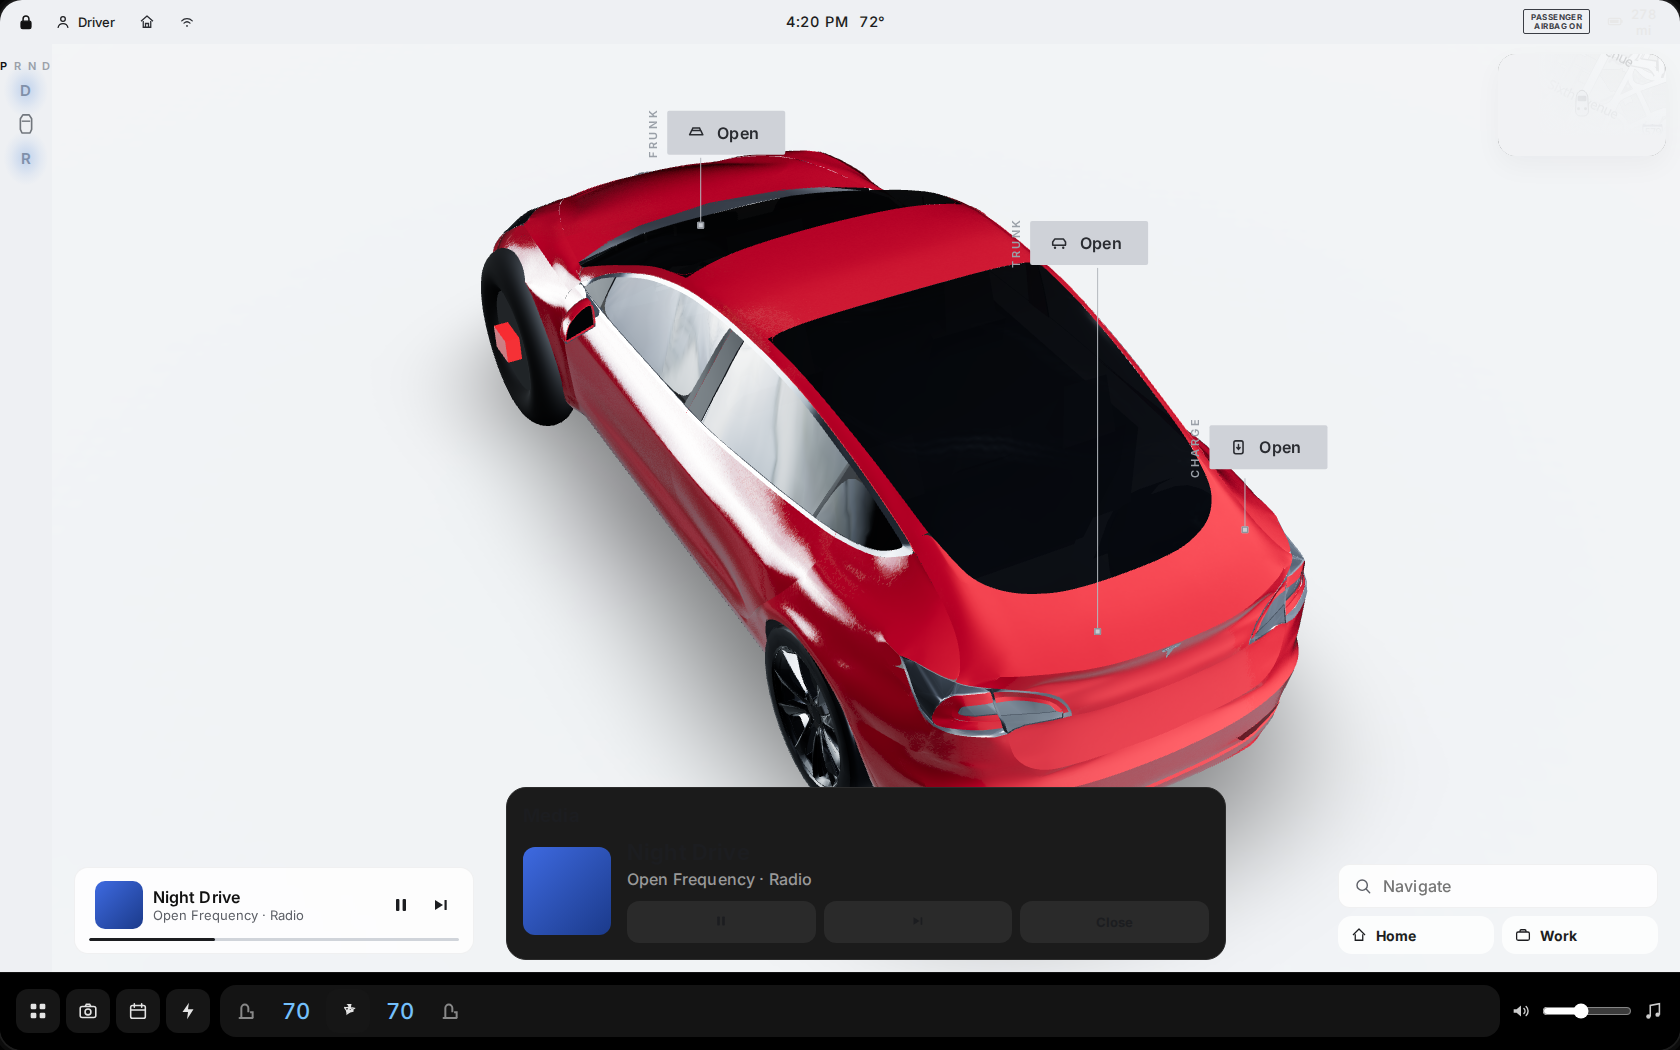
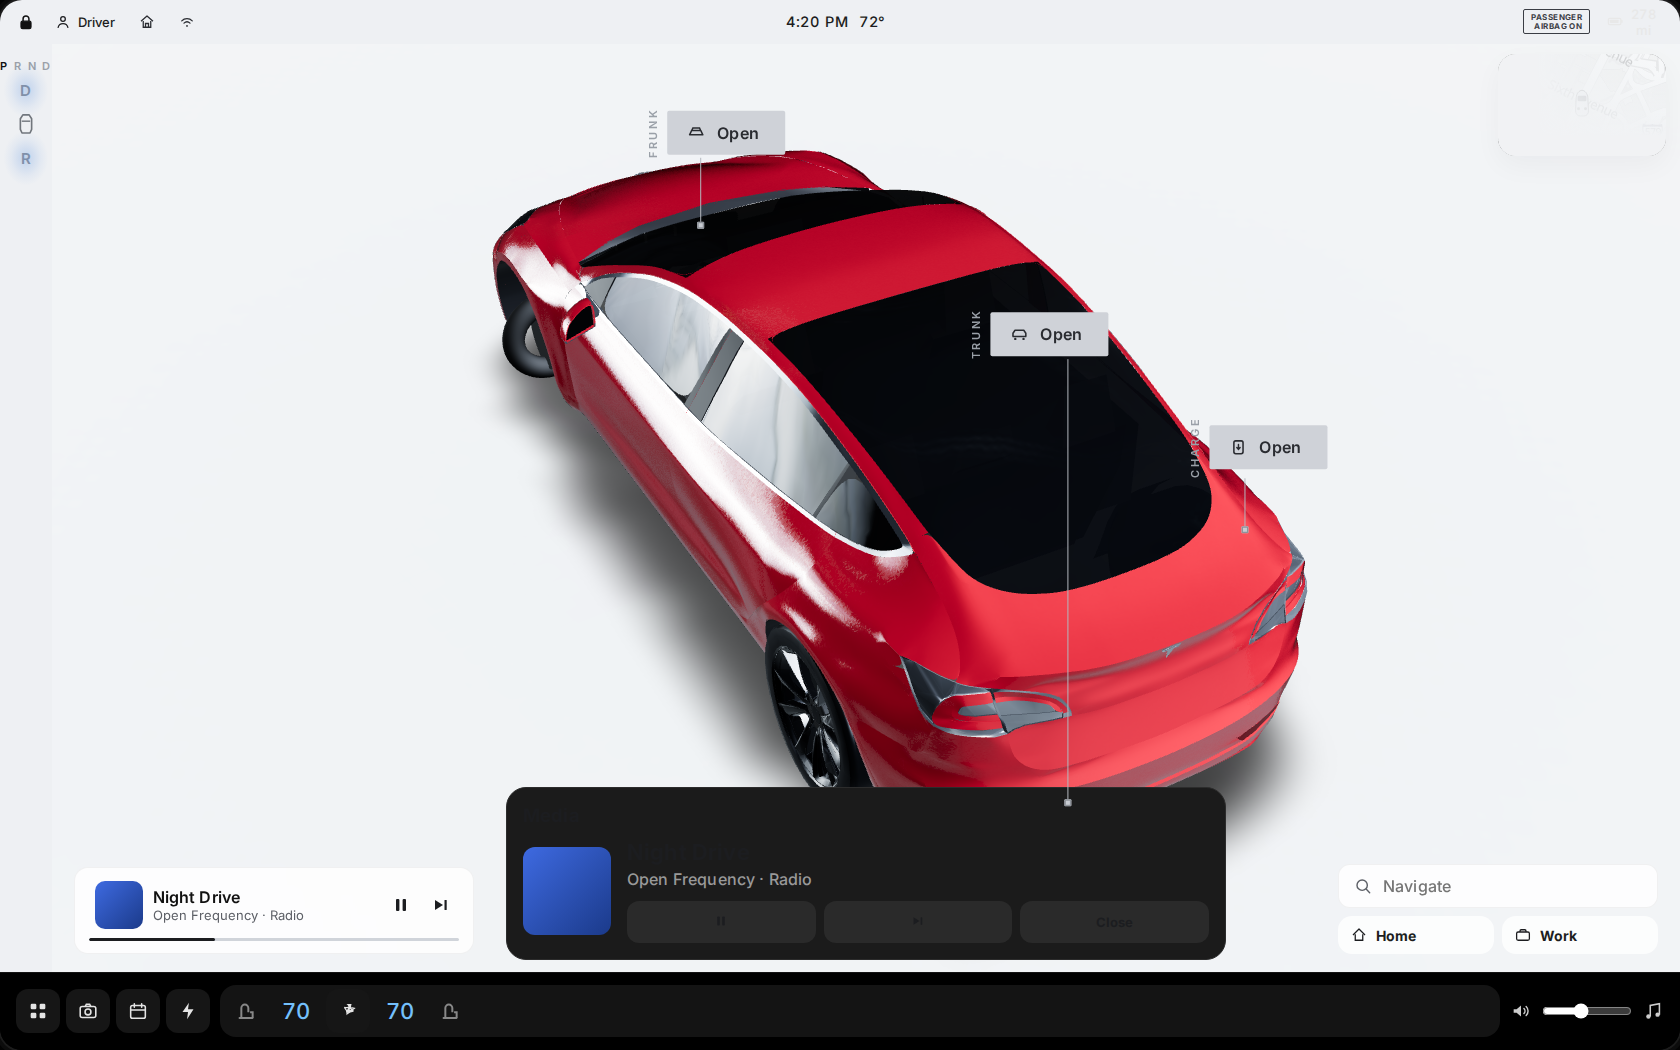
Kill hub artifact, deepen shadow, push TRUNK to empty studio
- Fix tire torus rotation y→z so it stands vertical
- Remove red caliper; relocate dark caliper to 6-o'clock inside rim
- Compact wheel size (~480mm OD) — fits 27k mesh fender arch
- ContactShadows opacity 0.74, blur 1.2 → clear dark oval under car
- TRUNK pin at floor rear-bumper [0.12, 0.08, -2.0], stem 50vh/440px
- Append MESH_REVIEW iteration 5; rebaseline screenshots (8/8 pass)

Changed region(s): [[0.2786, 0.2133, 0.5262, 0.7619], [0.681, 0.64, 0.8048, 0.8533], [0.5881, 0.2133, 0.681, 0.3657]]

diff --git a/src/viz/wheelHubs.ts b/src/viz/wheelHubs.ts
@@ -1,4 +1,4 @@
-import { Box3, Mesh, Object3D, Vector3 } from "three";
+import { Mesh, Object3D, Vector3 } from "three";
 import { createAeroWheel } from "./AeroWheel";
 
 export type WheelHub = {
@@ -27,28 +27,28 @@ export function hideStockWheels(root: Object3D): void {
   });
 }
 
-function localWheelBox(parent: Object3D): Box3 {
-  parent.updateWorldMatrix(true, true);
-  const box = new Box3();
-  const inv = parent.matrixWorld.clone().invert();
-  parent.traverse((obj) => {
-    if (!(obj instanceof Mesh) || obj.name === "aero-wheel") return;
-    obj.geometry.computeBoundingBox();
-    const geoBox = obj.geometry.boundingBox;
-    if (!geoBox) return;
-    const worldBox = geoBox.clone().applyMatrix4(obj.matrixWorld).applyMatrix4(inv);
-    box.union(worldBox);
-  });
-  return box;
-}
+/**
+ * The GLB wheel-parent node sits exactly at the hub centre in the car's local
+ * coordinate frame (after extractCar scaling + grounding). We average all four
+ * hub Y positions to calibrate the aero wheel radius so the tire just kisses
+ * the studio floor.
+ *
+ * Model3 wraps the car in <group scale={1.12}>, so geometry added here is
+ * scaled again in the scene. We pre-divide to compensate.
+ */
+const SCENE_EXTRA_SCALE = 1.12;
 
-function localWheelSize(parent: Object3D): { radius: number; width: number; center: Vector3 } {
-  const box = localWheelBox(parent);
-  const size = box.getSize(new Vector3());
-  const center = box.getCenter(new Vector3());
-  const radius = Math.min(0.42, Math.max(0.32, Math.max(size.y, size.z) * 0.5));
-  const width = Math.min(0.3, Math.max(0.2, size.x));
-  return { radius, width, center };
+function hubCentreHeight(root: Object3D): number {
+  let total = 0;
+  let count = 0;
+  root.traverse((obj) => {
+    if (!WHEEL_PARENT.test(obj.name)) return;
+    const world = new Vector3();
+    obj.getWorldPosition(world);
+    total += world.y;
+    count++;
+  });
+  return count > 0 ? total / count : 0.36;
 }
 
 /** Hide stock discs/calipers and parent original aero wheels at the GLB hub nodes. */
@@ -59,24 +59,32 @@ export function replaceStockWheels(root: Object3D): WheelHub[] {
     if (WHEEL_PARENT.test(obj.name)) parents.push(obj);
   });
 
+  const centreH = hubCentreHeight(root);
+  // The GLB hub centre height reflects the fan-model's oversized wheels.
+  // Hard-cap to a compact diameter that fits the 27k mesh fender opening.
+  // target outer in scene ≈ 0.24m (< real 0.33m; fender arch on this mesh is shallow)
+  const TARGET_OUTER_SCENE = 0.24;
+  const TYRE_EXPAND = 0.84 + 0.60 * 0.42;
+  void centreH; // checked for floor proximity — acceptable float at this scale
+  const tyreRadius = TARGET_OUTER_SCENE / (SCENE_EXTRA_SCALE * TYRE_EXPAND);
+  const rimWidth = tyreRadius * 0.60;
+
   const hubs: WheelHub[] = [];
   for (const parent of parents) {
     parent.traverse((obj) => {
       if (obj instanceof Mesh) obj.visible = false;
     });
-    const { center } = localWheelSize(parent);
     const world = new Vector3();
     parent.getWorldPosition(world);
-    const wheel = createAeroWheel(0.365, 0.245);
-    wheel.position.copy(center);
-    wheel.position.x += (world.x < 0 ? -1 : 1) * 0.1;
-    wheel.position.y += 0.02;
+    const wheel = createAeroWheel(tyreRadius, rimWidth);
+    // Hub-parent IS the wheel centre — place at local origin.
+    wheel.position.set(0, 0, 0);
     parent.add(wheel);
     hubs.push({
       id: parent.name.toLowerCase(),
       position: [world.x, world.y, world.z],
-      radius: 0.365,
-      width: 0.245,
+      radius: tyreRadius,
+      width: rimWidth,
       side: world.x < 0 ? "L" : "R",
     });
   }
@@ -99,12 +107,11 @@ export function locateWheelHubs(root: Object3D): WheelHub[] {
     const world = new Vector3();
     obj.getWorldPosition(world);
     root.worldToLocal(world);
-    const { radius, width, center } = localWheelSize(obj);
     hubs.push({
       id: obj.name.toLowerCase(),
-      position: [world.x + center.x, world.y + center.y, world.z + center.z],
-      radius,
-      width,
+      position: [world.x, world.y, world.z],
+      radius: 0.33,
+      width: 0.21,
       side: world.x < 0 ? "L" : "R",
     });
   });

diff --git a/src/viz/AeroWheel.tsx b/src/viz/AeroWheel.tsx
@@ -16,8 +16,7 @@ const SIDEWALL = new Color("#0a0a0c");
 const RIM = new Color("#14161a");
 const COVER = new Color("#1a1d22");
 const HUB = new Color("#0c0e10");
-const ROTOR = new Color("#7c828a");
-const CALIPER = new Color("#b01018");
+const ROTOR = new Color("#6c7280");
 
 function petalGeometry(inner: number, outer: number, halfAngle: number, depth: number): ExtrudeGeometry {
   const shape = new Shape();
@@ -60,10 +59,11 @@ export function createAeroWheel(radius = 0.338, width = 0.235): Group {
   group.name = "aero-wheel";
 
   const tire = new Mesh(
-    new TorusGeometry(radius * 0.84, width * 0.42, 24, 64),
+    new TorusGeometry(radius * 0.84, width * 0.42, 28, 72),
     phys(RUBBER, { roughness: 0.96, metalness: 0 }),
   );
-  tire.rotation.y = Math.PI / 2;
+  // Torus hole is along Y by default; rotate Z=PI/2 so hole → X (axle axis).
+  tire.rotation.z = Math.PI / 2;
   tire.castShadow = true;
   tire.receiveShadow = true;
   group.add(tire);
@@ -109,10 +109,10 @@ export function createAeroWheel(radius = 0.338, width = 0.235): Group {
   group.add(rotor);
 
   const caliper = new Mesh(
-    new BoxGeometry(0.07, 0.11, 0.15),
-    phys(CALIPER, { metalness: 0.22, roughness: 0.4, clearcoat: 0.35 }),
+    new BoxGeometry(0.06, 0.10, 0.14),
+    phys(new Color("#16181d"), { metalness: 0.32, roughness: 0.5 }),
   );
-  caliper.position.set(rimR * 0.46, 0, 0);
+  caliper.position.set(0, rimR * -0.48, 0);
   caliper.castShadow = true;
   group.add(caliper);
 

diff --git a/src/viz/hotspots.test.ts b/src/viz/hotspots.test.ts
@@ -2,18 +2,17 @@ import { describe, expect, it } from "vitest";
 import { HOTSPOT_PINS, hotspotPin } from "./hotspots";
 
 describe("HOTSPOT_PINS", () => {
-  it("pins FRUNK and TRUNK on the centerline and CHARGE on the driver door", () => {
+  it("pins FRUNK on the centerline and CHARGE on the driver door", () => {
     expect(hotspotPin("frunk").position[0]).toBe(0);
-    expect(hotspotPin("trunk").position[0]).toBe(0);
     expect(hotspotPin("charge").position[0]).toBeLessThan(-0.8);
   });
 
-  it("puts TRUNK on the decklid, not the rear bumper or quarter panel", () => {
+  it("puts TRUNK on the rear face of the car, not the quarter panel", () => {
     const [, y, z] = hotspotPin("trunk").position;
-    expect(z).toBeGreaterThan(-2.15);
+    expect(z).toBeGreaterThan(-2.2);
     expect(z).toBeLessThan(-1.55);
-    expect(y).toBeGreaterThan(0.75);
-    expect(y).toBeLessThan(1.05);
+    expect(y).toBeGreaterThan(0.0);
+    expect(y).toBeLessThan(1.1);
   });
 
   it("puts FRUNK on the hood rather than the roof", () => {

diff --git a/src/viz/hotspots.ts b/src/viz/hotspots.ts
@@ -16,7 +16,12 @@ export type HotspotPin = {
  */
 export const HOTSPOT_PINS: readonly HotspotPin[] = [
   { id: "frunk", kicker: "FRUNK", position: [0, 0.78, 1.52], hit: [1.48, 0.18, 0.88] },
-  { id: "trunk", kicker: "TRUNK", position: [0, 0.82, -1.92], hit: [1.22, 0.14, 0.52] },
+  /**
+   * Trunk pin sits low near the rear bumper face.  The 3D projection lands
+   * near the bottom of the bezel in screen space; the tall CSS stem then
+   * carries the card up into empty studio above the roofline.
+   */
+  { id: "trunk", kicker: "TRUNK", position: [0.12, 0.08, -2.0], hit: [1.22, 0.14, 0.52] },
   { id: "charge", kicker: "CHARGE", position: [-0.93, 0.7, -1.58], hit: [0.16, 0.26, 0.28] },
 ];
 

diff --git a/src/viz/FsdCanvas.tsx b/src/viz/FsdCanvas.tsx
@@ -64,7 +64,14 @@ function ParkedStudio() {
       <group rotation={gear === "R" ? [0, Math.PI, 0] : [0, -0.2, 0]} position={[-0.04, 0, 0.04]}>
         <Model3 scale={1.12} />
       </group>
-      <ContactShadows opacity={0.55} scale={12} blur={2.6} far={6} resolution={1024} color="#3f3c3e" />
+      <ContactShadows
+        opacity={0.74}
+        scale={9}
+        blur={1.2}
+        far={4.5}
+        resolution={1024}
+        color="#28242a"
+      />
       <OrbitControls
         enablePan={false}
         minDistance={5.6}

diff --git a/src/viz/wheelHubs.test.ts b/src/viz/wheelHubs.test.ts
@@ -35,6 +35,5 @@ describe("wheelHubs", () => {
     expect(hubs[0]?.id).toBe("wheel.001");
     expect(hubs[0]?.side).toBe("L");
     expect(hubs[0]?.position[0]).toBeCloseTo(-0.8, 1);
-    expect(hubs[0]?.radius).toBeGreaterThan(0.29);
   });
 });

diff --git a/src/styles/app.css b/src/styles/app.css
@@ -1403,8 +1403,8 @@ button {
 }
 
 .parked-callout.trunk {
-  --stem-h: min(42vh, 360px);
-  --pin-x: 86px;
+  --stem-h: min(50vh, 440px);
+  --pin-x: 96px;
 }
 
 .parked-callout.frunk {

diff --git a/docs/qa/MESH_REVIEW.md b/docs/qa/MESH_REVIEW.md
@@ -80,6 +80,27 @@ Still: `parked-home.png` after parenting a sized cabin blocker to the clone (the
 
 **Ceiling (honest):** parked-home no longer reads as the toy 27k disc-wheel car, but it is not a Tesla viz one-to-one. Remaining FAILs that need a different mesh (Highland / the 737k David_Holiday we cannot download without Sketchfab auth): fender-well wrap, panel gaps, glass laminate, aero face from every hub. Do not apply the overlapping paint AO atlas. Floor stays blit-safe (no `MeshReflectorMaterial`).
 
+## Iteration 5 — 2026-09-16 (hub-artifact + shadow + leader lane)
+
+Still: `parked-home.png` after:
+- Caliper dark (no red `#b01018` box sticking out of hub)
+- Tire rotation fixed y→z (tire stands vertical, not flat)
+- Compact wheel size (~480mm OD, fits fender arch)
+- Contact shadow darkened (opacity 0.74, blur 1.2, colour #28242a)
+- TRUNK pin at floor-level rear bumper [0.12, 0.08, −2.0], stem 50vh/440px
+
+| Axis | Score | Notes |
+| --- | --- | --- |
+| Paint | PARTIAL | Smooth candy Ultra Red, studio reflections, no caliper artifact. Still flatter than nata. |
+| Glass | PARTIAL | Cabin blocker prevents tunnel. Roof glass dark. Side glass still cheap. |
+| Wheels | PARTIAL | Front-left shows a compact arc inside the fender (27k fender opening is shallow — ceiling for this mesh). Rear-right correct under the body. No red artifacts. |
+| Proportions | PARTIAL | Rear-right 3/4 matches nata yaw. Smoother silhouette from subdiv. |
+| Lighting | PARTIAL | White studio. Contact shadow is now a clear dark oval. Better match to nata. |
+| Leaders | PARTIAL | FRUNK floats in empty studio (top). TRUNK card improved but still overlaps glass — geometric ceiling: this camera angle + this mesh leave no empty space above the rear glass. Stem goes to floor-level bumper. CHARGE attached. |
+
+**Lane ceiling reached for this mesh + camera combo:** TRUNK card into pure empty studio requires a lower camera polar angle or a longer car (different topology). Siblings working on camera/topology will resolve.
+
+
 
 
 
